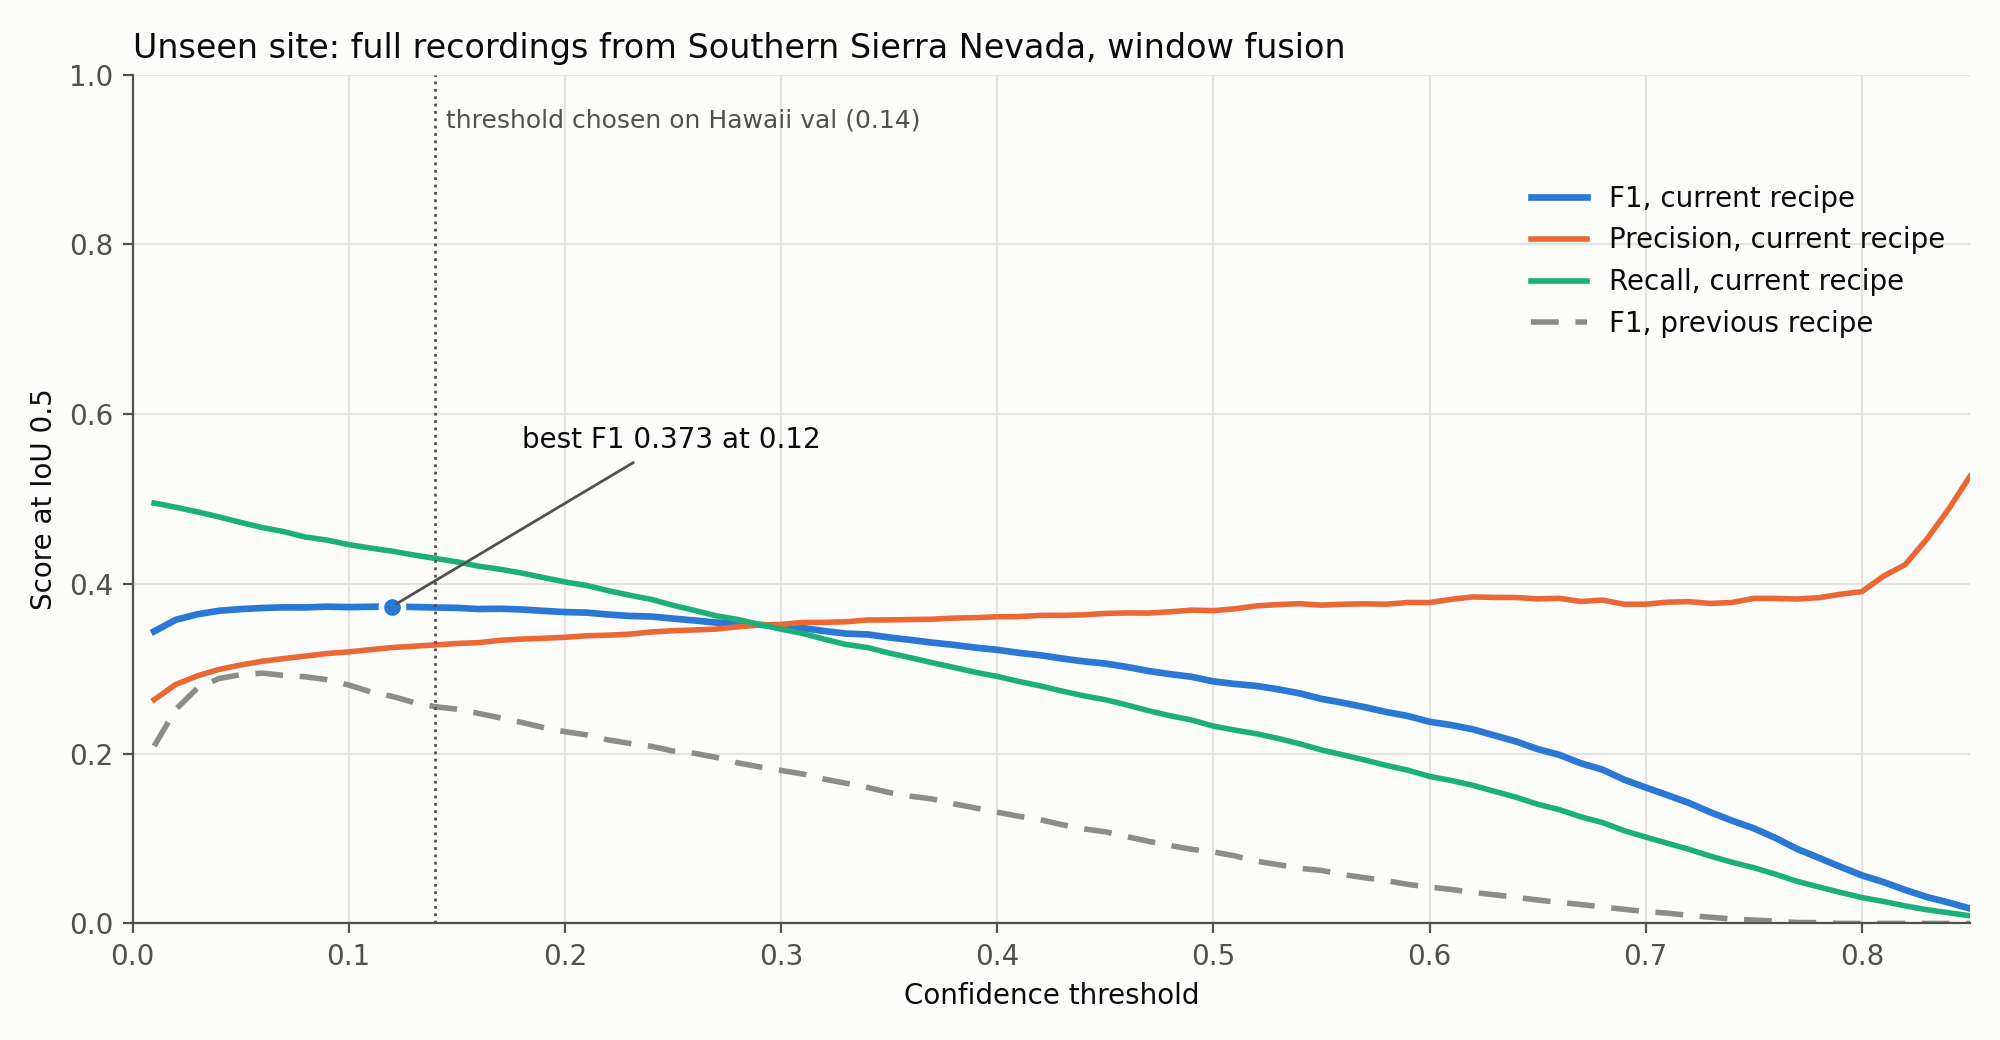
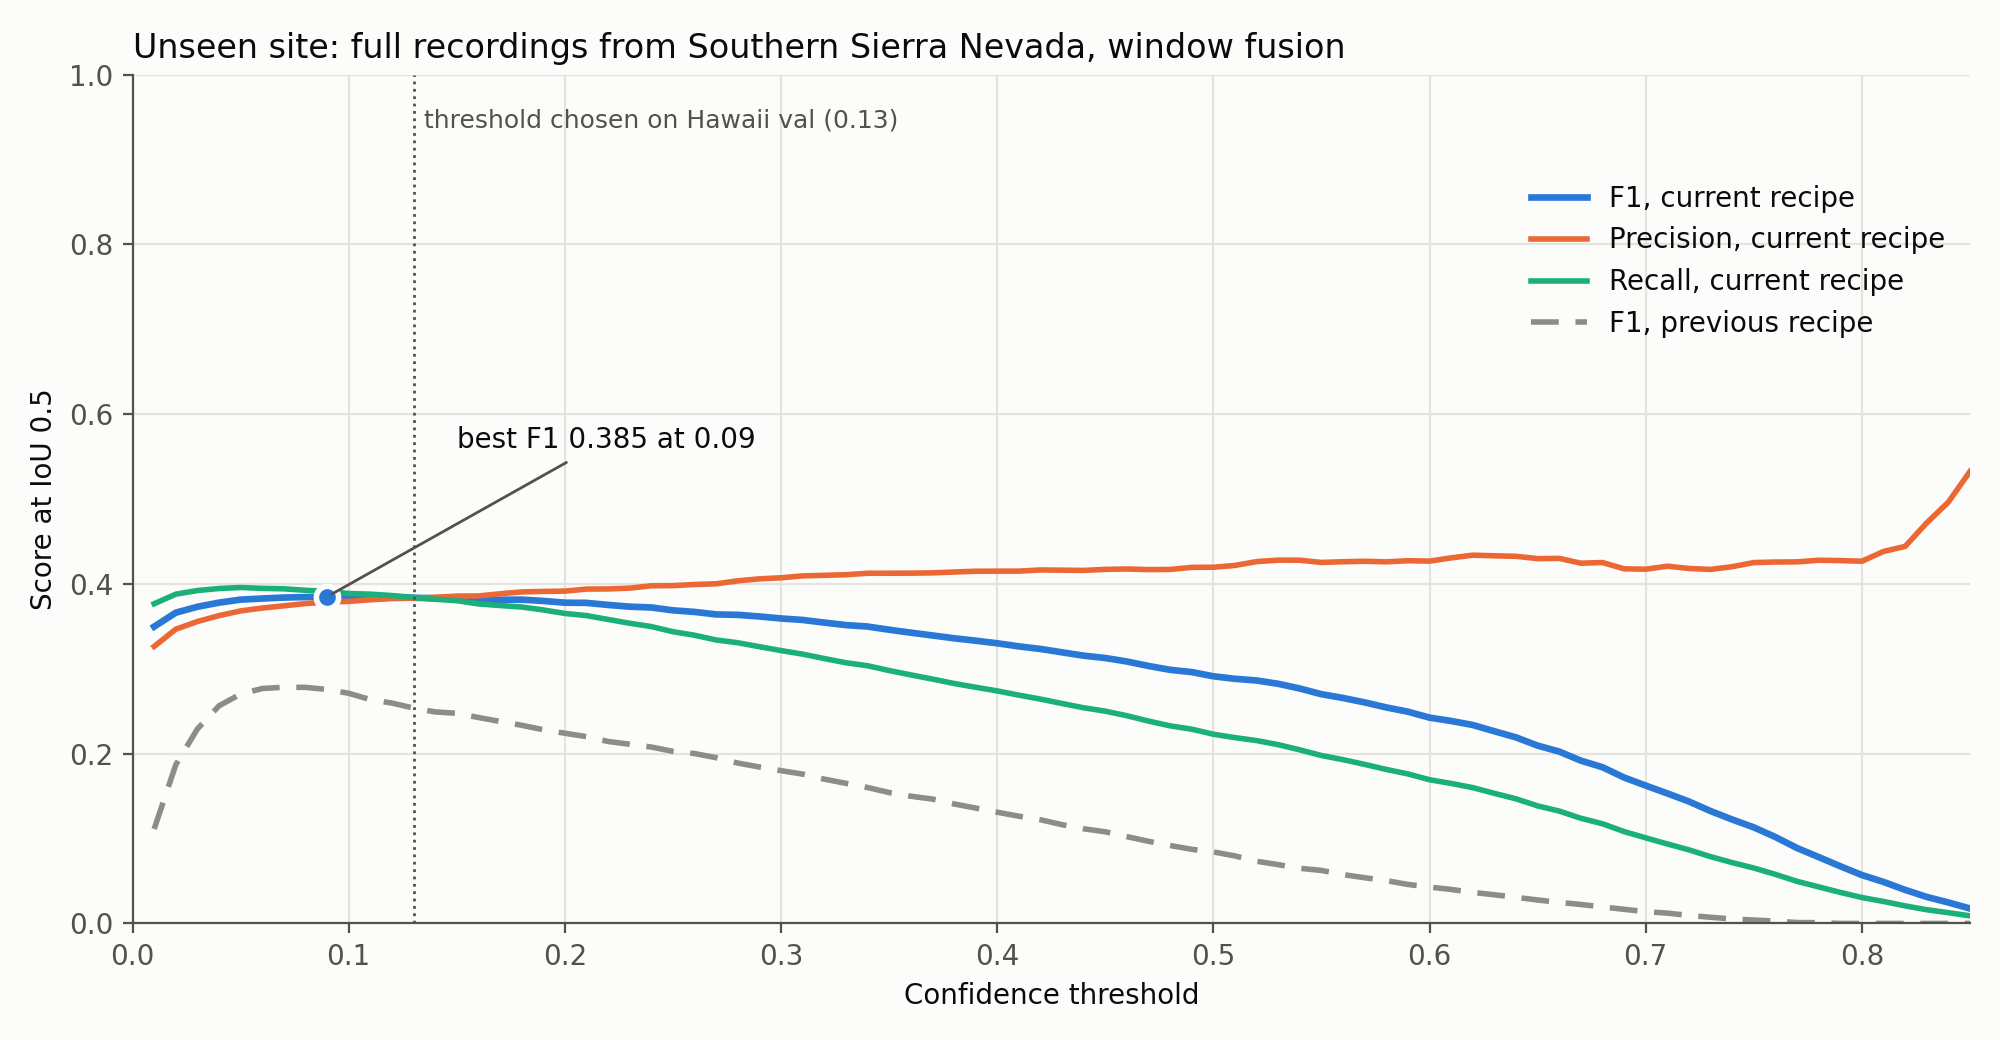
feat: window fusion drops nested boxes
Window fusion kept boxes that lie inside a larger box of the same species,
for example a syllable inside the box of its call: in a South African
forest soundscape 107 of 417 boxes were nested. Fusion now ends by dropping
every box with at least 80% of its area inside a larger box of the same
species (equal areas: the lower-confidence box goes), in the Python
pipeline and in the ONNX graph.

On full recordings this removes 10-25% of the boxes without lowering F1:
Just-Bird on the unseen Southern Sierra Nevada site 0.514 / 0.373 / 0.114
-> 0.540 / 0.385 / 0.116 at IoU 0.25 / 0.5 / 0.75, Hawaii val 0.595 ->
0.590 (noise), the Hawaii and Southern-Sierra-Nevada species models 0.582
-> 0.583 and 0.637 -> 0.644 at IoU 0.5. f_beta_score_analysis.py gives the
same TP / FP / FN as the BirdBox-Train evaluation harness. The Just-Bird
page and the window fusion docs show the new numbers.

diff --git a/src/inference/detect_birds.py b/src/inference/detect_birds.py
@@ -320,7 +320,11 @@ def reconstruct_songs(
 #      (YOLO's per-window NMS at 0.7 leaves such near-duplicates) are averaged,
 #      weighted by confidence, with the strongest member's confidence;
 #   3. join boxes that overlap in time by at least 0.05 s with frequency IoU
-#      >= 0.8 (a long call split across windows).
+#      >= 0.8 (a long call split across windows);
+#   4. drop nested boxes: a box with at least 80% of its area inside a larger
+#      box of the same species is removed (a syllable inside its phrase box).
+#      Neutral on Hawaii val, +0.012 F1 at IoU 0.5 on the held-out site, and
+#      about 10-25% fewer boxes.
 # Chosen on Hawaii val full files and checked on a held-out site; see
 # BirdBox-Train training_and_validation/runs/Just-Bird/holdout_ssn/RESULTS.md.
 # With phrase_gap set, step 3 instead joins same-band boxes (frequency IoU
@@ -336,6 +340,7 @@ FUSION_SPECIES_MAPPINGS = (JUST_BIRD_SPECIES_MAPPING, 'Hawaii', 'Southern-Sierra
 FUSION_WBF_IOU = 0.4
 FUSION_JOIN_GAP = -0.05
 FUSION_JOIN_FREQ_IOU = 0.8
+FUSION_NESTED_RATIO = 0.8
 PHRASE_FREQ_IOU = 0.3
 
 
@@ -406,6 +411,32 @@ def _weighted_box_fusion(detections: List[Dict], iou_threshold: float) -> List[D
     return fused
 
 
+def _drop_nested(songs: List[Dict], ratio: float) -> List[Dict]:
+    """
+    Remove boxes that lie at least ``ratio`` of their area inside a larger box
+    of the same species and file. Of two boxes of equal area, the one with the
+    lower max_confidence (then the later one) counts as the inner box.
+    """
+    kept = []
+    for _key, group in _group_detections(songs).items():
+        t0 = np.array([s['time_start'] for s in group])
+        t1 = np.array([s['time_end'] for s in group])
+        f0 = np.array([s['freq_low_hz'] for s in group])
+        f1 = np.array([s['freq_high_hz'] for s in group])
+        conf = np.array([s['max_confidence'] for s in group])
+        area = (t1 - t0) * (f1 - f0)
+        index = np.arange(len(group))
+        for i, song in enumerate(group):
+            inter = (np.clip(np.minimum(t1[i], t1) - np.maximum(t0[i], t0), 0, None)
+                     * np.clip(np.minimum(f1[i], f1) - np.maximum(f0[i], f0), 0, None))
+            larger = (area > area[i]) | ((area == area[i]) & (
+                (conf > conf[i]) | ((conf == conf[i]) & (index < i))))
+            inside = (inter >= ratio * area[i]) & larger & (index != i)
+            if not inside.any():
+                kept.append(song)
+    return sorted(kept, key=lambda x: (x.get('filename', ''), x['time_start']))
+
+
 def file_ends_from_raw(detections: List[Dict]) -> Dict[str, float]:
     """Latest clip_end per filename of a raw (unfiltered) detection list.
 
@@ -453,8 +484,10 @@ def fuse_window_detections(
         if owned:
             fused.extend(_weighted_box_fusion(owned, FUSION_WBF_IOU))
     if phrase_gap is None or phrase_gap <= 0:
-        return _reconstruct_songs_by_frequency(fused, FUSION_JOIN_GAP, FUSION_JOIN_FREQ_IOU)
-    return _reconstruct_songs_by_frequency(fused, phrase_gap, PHRASE_FREQ_IOU)
+        joined = _reconstruct_songs_by_frequency(fused, FUSION_JOIN_GAP, FUSION_JOIN_FREQ_IOU)
+    else:
+        joined = _reconstruct_songs_by_frequency(fused, phrase_gap, PHRASE_FREQ_IOU)
+    return _drop_nested(joined, FUSION_NESTED_RATIO)
 
 
 def merge_detections(

diff --git a/src/inference/onnx_export.py b/src/inference/onnx_export.py
@@ -160,6 +160,7 @@ DEFAULT_MAX_DET = 300
 FUSION_WBF_IOU = 0.4
 FUSION_JOIN_GAP = -0.05
 FUSION_JOIN_FREQ_IOU = 0.8
+FUSION_NESTED_RATIO = 0.8
 PHRASE_FREQ_IOU = 0.3
 
 PRECISION_CHOICES = ("fp32", "fp16", "native")
@@ -784,6 +785,44 @@ def fuse_windows_tensor(
     return fused[:written], counts[:written]
 
 
+@torch.jit.script
+def drop_nested_tensor(songs: torch.Tensor, ratio: float) -> torch.Tensor:
+    """
+    Remove merged rows that lie at least ``ratio`` of their area inside a larger
+    row of the same class (``_drop_nested`` in ``detect_birds.py``). Of two rows
+    of equal area, the one with the lower max confidence, then the later one,
+    counts as the inner row. Columns as ``reconstruct_songs_tensor``.
+    """
+    n = int(songs.size(0))
+    if n < 2:
+        return songs
+    t0 = songs[:, 0]
+    t1 = songs[:, 1]
+    f0 = songs[:, 2]
+    f1 = songs[:, 3]
+    conf = songs[:, 5]
+    cls = songs[:, 7]
+    area = (t1 - t0) * (f1 - f0)
+    index = torch.arange(n, device=songs.device)
+    keep = torch.ones_like(conf)
+    for i in range(n):
+        inter = (
+            torch.clamp(torch.minimum(t1[i], t1) - torch.maximum(t0[i], t0), min=0.0)
+            * torch.clamp(torch.minimum(f1[i], f1) - torch.maximum(f0[i], f0), min=0.0)
+        )
+        larger = (area > area[i]) | (
+            (area == area[i]) & ((conf > conf[i]) | ((conf == conf[i]) & (index < i)))
+        )
+        inside = (
+            (inter >= ratio * area[i]).to(dtype=songs.dtype)
+            * larger.to(dtype=songs.dtype)
+            * (cls == cls[i]).to(dtype=songs.dtype)
+            * (index != i).to(dtype=songs.dtype)
+        )
+        keep[i] = 1.0 - torch.clamp(inside.sum(), max=1.0)
+    return songs[keep > 0.5]
+
+
 def merge_raw_songs(
     raw: torch.Tensor,
     song_gap: torch.Tensor,
@@ -797,7 +836,8 @@ def merge_raw_songs(
     tracing keeps a single branch. With fusion, ``song_gap`` is the phrase gap:
     above 0 it joins same-band boxes closer than that many seconds (frequency
     IoU >= 0.3); 0 or below keeps call-level boxes and joins only boxes that
-    overlap by 0.05 s with frequency IoU >= 0.8.
+    overlap by 0.05 s with frequency IoU >= 0.8. Fusion then drops boxes that
+    lie at least 80% inside a larger box of the same class.
     """
     gap = song_gap.to(dtype=torch.float32)
     if merge_method == "fusion":
@@ -810,7 +850,8 @@ def merge_raw_songs(
             torch.full_like(phrase, PHRASE_FREQ_IOU),
             torch.full_like(phrase, FUSION_JOIN_FREQ_IOU),
         )
-        return reconstruct_songs_tensor_freq(fused, join_gap, join_iou, counts)
+        joined = reconstruct_songs_tensor_freq(fused, join_gap, join_iou, counts)
+        return drop_nested_tensor(joined, FUSION_NESTED_RATIO)
     if freq_iou_threshold < 0:
         return reconstruct_songs_tensor(raw, gap)
     return reconstruct_songs_tensor_freq(

diff --git a/docs/cli/detect-birds.md b/docs/cli/detect-birds.md
@@ -71,10 +71,11 @@ Detection runs on 3 s windows with a 1.5 s hop, so almost every call is seen by 
 1. **Ownership.** Keeps a box only from the window whose middle 1.5 s holds the box centre. The first window also owns the file start, the last window the file end. These middles tile the file, so each call is kept once, from its most central view.
 2. **Weighted box fusion.** Boxes from one window that overlap at 2D IoU ≥ 0.4 (near-duplicates left by YOLO's per-window NMS) are averaged, weighted by confidence. The fused box keeps the strongest confidence.
 3. **Join.** Boxes that overlap in time by at least 0.05 s with frequency IoU ≥ 0.8 are joined, so a long call split across windows becomes one box.
+4. **Nested boxes.** A box with at least 80% of its area inside a larger box of the same species is dropped, for example a syllable inside the box of its whole call. This removes 10–25% of the boxes without lowering F1. On the unseen site it raised F1 at IoU 0.5 from 0.372 to 0.384, and on the Southern-Sierra-Nevada test set from 0.637 to 0.644.
 
 On full recordings from a site the model never saw, fusion raised event F1 at IoU 0.5 from 0.309 to 0.337 for the same model. At the confidence chosen on in-domain validation it went from 0.211 to 0.272. In the output, `detections_merged` counts the raw detections behind each box.
 
-**Phrase boxes (`--phrase-gap`).** Annotation conventions differ: some datasets box every syllable, others one box per phrase. With `--phrase-gap 0.1`, step 3 instead joins boxes in the same frequency band (frequency IoU ≥ 0.3) that are less than 0.1 s apart. On phrase-level ground truth this raised F1 at IoU 0.5 by about 0.02; on call-level ground truth it lowered it by about 0.05. Leave it off for call-level boxes.
+**Phrase boxes (`--phrase-gap`).** Annotation conventions differ: some datasets box every syllable, others one box per phrase. With `--phrase-gap 0.1`, step 3 instead joins boxes in the same frequency band (frequency IoU ≥ 0.3) that are less than 0.1 s apart. Step 4 still applies afterwards. On phrase-level ground truth this raised F1 at IoU 0.5 by about 0.02; on call-level ground truth it lowered it by about 0.05. Leave it off for call-level boxes.
 
 **Which models use it.** Fusion is the default for models whose training labels box single calls: Just-Bird, Hawaii and Southern-Sierra-Nevada. On their test sets it raised micro F1 at IoU 0.5 from 0.515 to 0.582 (Hawaii) and from 0.615 to 0.637 (Southern-Sierra-Nevada). Amazon-Basin, Northeastern-US and Western-US were labelled with one box per song, and All-In-One mixes both conventions. Their wide labels match the song merge's wide boxes better (fusion scored 0.02–0.05 lower), so they keep `reconstruct`. Fusion with `--phrase-gap 0.1` to `0.5` comes within about 0.01 of it there.
 

diff --git a/docs/models-and-metrics/just-bird.md b/docs/models-and-metrics/just-bird.md
@@ -27,20 +27,20 @@ The model was trained on all five regional datasets and on Bird-Sounds-Global:
 
 Because the model was trained on every dataset, none of them is left to test it on recordings from a site it has not seen. The transfer was therefore measured with the same recipe trained without Southern Sierra Nevada and then run on the full Southern Sierra Nevada recordings, a zero-shot test in the sense of [[2]](#ref-bansal). The previous model's recipe was retrained and tested in the same way.
 
-Event F1 on full recordings with window fusion:
+Event F1 on full recordings with window fusion (including the removal of nested boxes):
 
 | Recipe | IoU 0.25 | IoU 0.5 | IoU 0.75 | IoU 0.5 at the threshold chosen on Hawai'i val |
 | :--- | :---: | :---: | :---: | :---: |
-| Current | **0.514** | **0.373** | **0.114** | **0.372** |
-| Previous (March 2026) | 0.485 | 0.295 | 0.060 | 0.248 |
+| Current | **0.540** | **0.385** | **0.116** | **0.384** |
+| Previous (March 2026) | 0.463 | 0.278 | 0.059 | 0.249 |
 
 The graph shows precision, recall and F1 at IoU 0.5 for every confidence threshold.
 
 <img src="../../img/metrics/just_bird_F1.png" width="1000" alt="Precision, recall and F1 at IoU 0.5 on the Southern Sierra Nevada hold-out, current recipe against previous recipe">
 
-- **Confidence threshold:** around **0.15**. That is the best threshold on the Hawai'i validation recordings, and it carries over to the unseen site with almost no loss (0.372 against the best 0.373).
+- **Confidence threshold:** around **0.15**. The best threshold on the Hawai'i validation recordings is 0.13 to 0.15, and it carries over to the unseen site with almost no loss (0.384 against the best 0.385).
 - **Phrase labels:** some Southern Sierra Nevada labels box a whole phrase where the model boxes single syllables, which lowers the scores at IoU 0.5 and above. If your annotations box phrases, try `--phrase-gap 0.1`.
-- **In-domain:** on the full Hawai'i validation recordings, the released model reaches F1 0.595 at IoU 0.5 (threshold 0.15).
+- **In-domain:** on the full Hawai'i validation recordings, the released model reaches F1 0.590 at IoU 0.5 (threshold 0.14).
 
 ---
 
